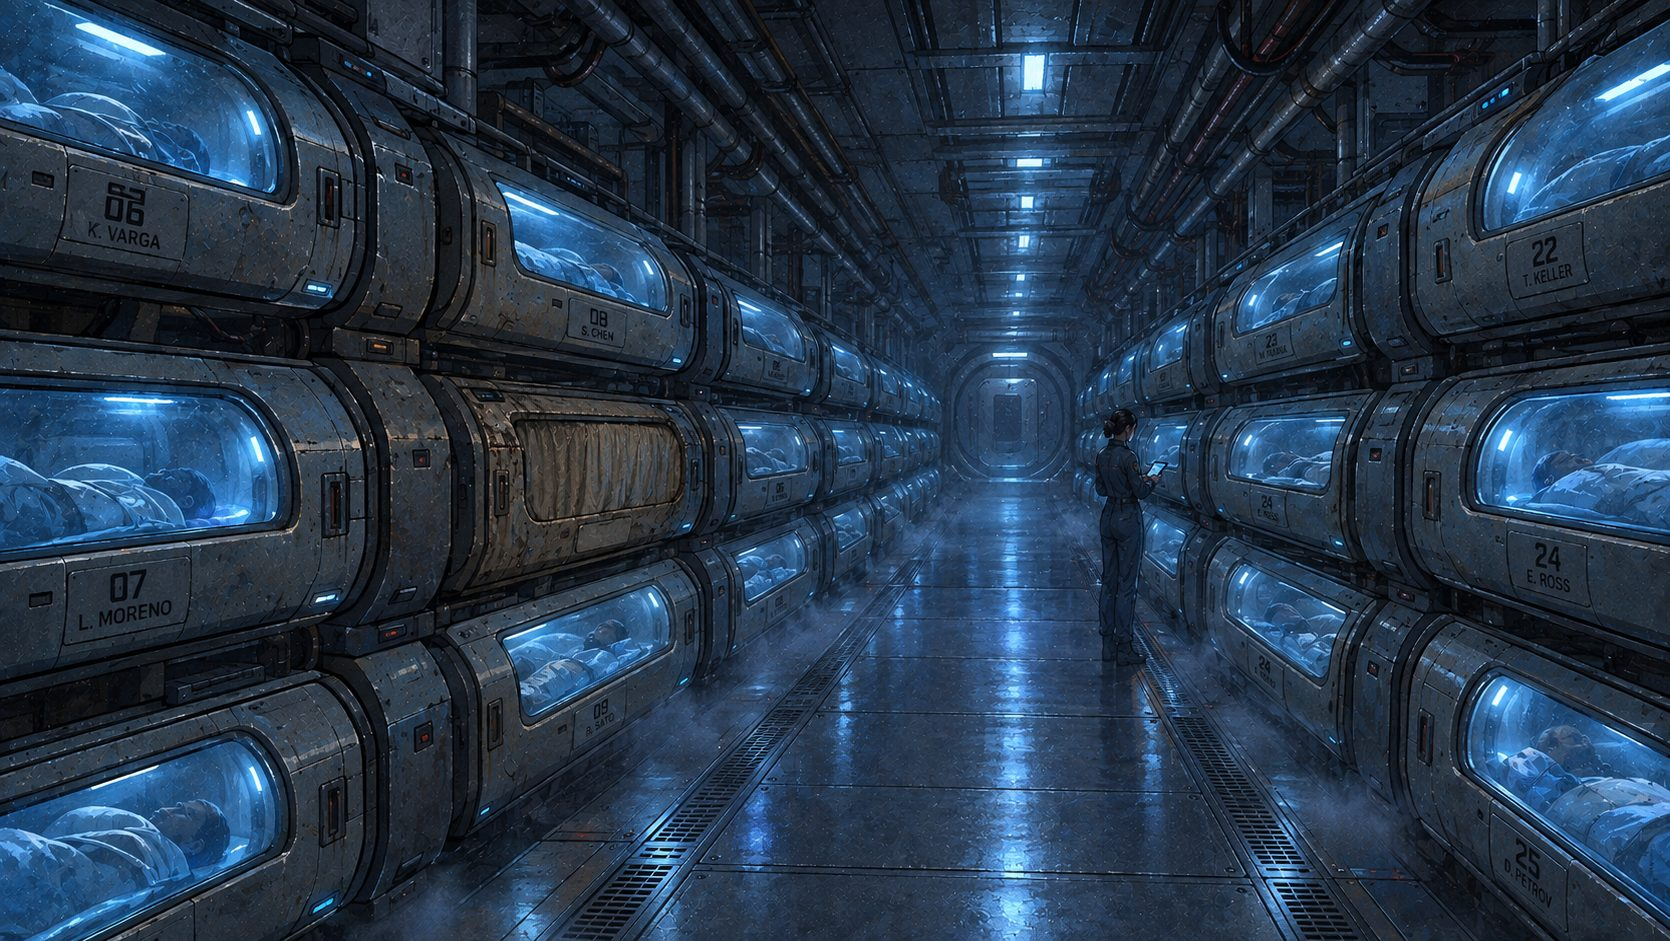
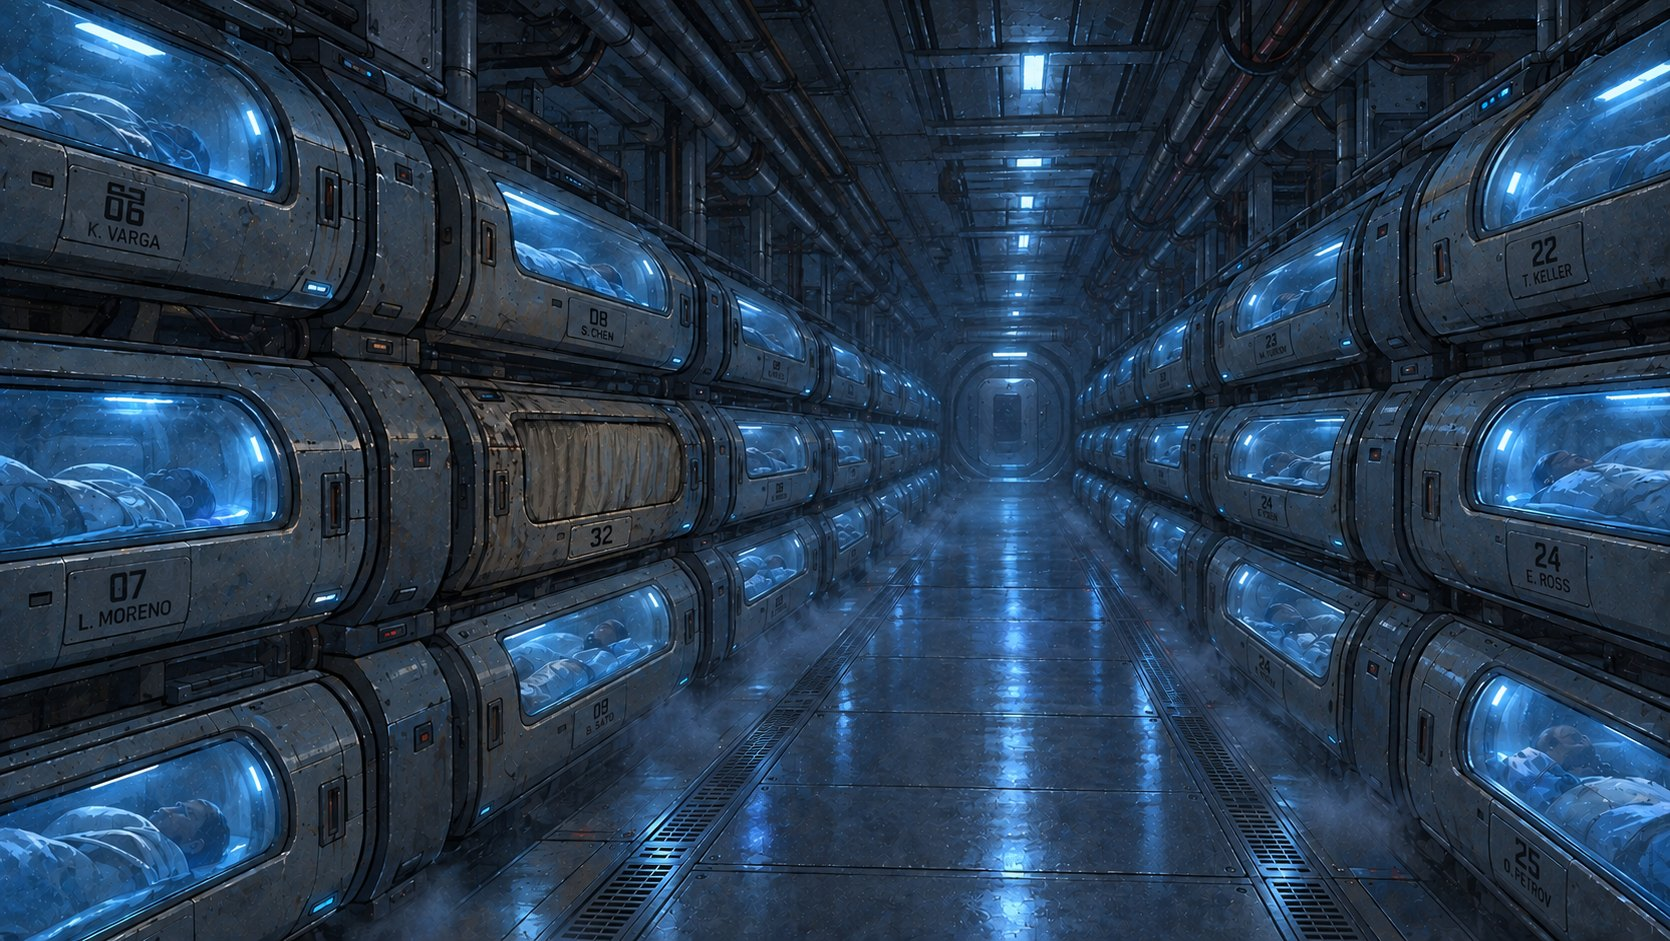
Нова картинка кріокапсул A3; вертикальна обкладинка для телефонів
Claude-Session: https://claude.ai/code/session_01L4NAMirpdvCDRV66K9yRcj

diff --git a/js/app.js b/js/app.js
@@ -1,12 +1,12 @@
-import { createStore } from './store.js?v=202611221233';
+import { createStore } from './store.js?v=202611221237';
 import {
   CHARACTERS, CHAR_BY_ID, ROOMS, ROOM_BY_ID, STAT_LABELS, SAVE_LABELS,
   PANIC_TABLE, WOUND_TABLE, EVENTS, GRETA_MODES, O2_START, initialChars,
   ROOM_LINKS, ROBOTS, ROBOT_BY_ID, XT2_HINTS
-} from './data.js?v=202611221233';
-import { CAMPAIGN, THREAT_STAGES, OBJECTIVES, OBJ_BY_ID, ROUND_EVENTS, GRETA_LINES, LONG_ACTIONS, INTRO_SLIDES } from './campaign.js?v=202611221233';
+} from './data.js?v=202611221237';
+import { CAMPAIGN, THREAT_STAGES, OBJECTIVES, OBJ_BY_ID, ROUND_EVENTS, GRETA_LINES, LONG_ACTIONS, INTRO_SLIDES } from './campaign.js?v=202611221237';
 
-const VERSION = '202611221233';
+const VERSION = '202611221237';
 // ---------- утиліти ----------
 const $ = s => document.querySelector(s);
 const esc = s => String(s ?? '').replace(/[&<>"']/g, c => ({ '&': '&amp;', '<': '&lt;', '>': '&gt;', '"': '&quot;', "'": '&#39;' }[c]));
@@ -1197,7 +1197,7 @@ async function bootGM() {
     }
   }
   S.isAdmin = true;
-  try { S.items = (await import('./gm-items.js?v=202611221233')).ITEMS; } catch (e) { console.warn('items', e); S.items = []; }
+  try { S.items = (await import('./gm-items.js?v=202611221237')).ITEMS; } catch (e) { console.warn('items', e); S.items = []; }
   subs.push(store.on('game/state', v => { S.state = v; renderGM(); }));
   subs.push(store.on('game/seats', v => { S.seats = v || {}; if ($('#gmRoot')) renderCrew(); }));
   subs.push(store.on('game/chars', v => { S.chars = v || {}; if ($('#gmRoot')) { renderMain(); renderCrew(); } }));

diff --git a/index.html b/index.html
@@ -15,15 +15,15 @@
   <link rel="preconnect" href="https://fonts.googleapis.com">
   <link rel="preconnect" href="https://fonts.gstatic.com" crossorigin>
   <link href="https://fonts.googleapis.com/css2?family=Inter:wght@400;500;600&family=JetBrains+Mono:wght@400;700&family=Oswald:wght@400;500;600&display=swap" rel="stylesheet">
-  <link rel="stylesheet" href="css/style.css?v=202611221233">
+  <link rel="stylesheet" href="css/style.css?v=202611221237">
 </head>
 <body>
   <div id="intro" class="intro">
-    <img src="assets/cover.jpg" alt="Квітка Розуму">
+    <picture><source media="(orientation: portrait) and (max-width: 900px)" srcset="assets/cover-m.jpg"><img src="assets/cover.jpg" alt="Квітка Розуму"></picture>
     <div class="intro-ui" id="introMsg"><div class="ring mode-assist"><span></span></div><span>ВСТАНОВЛЮЮ ЗВ'ЯЗОК З STS-187…</span></div>
   </div>
   <div id="app"></div>
   <script>if ('serviceWorker' in navigator && !/[?&#]gm\b/.test(location.search + location.hash)) navigator.serviceWorker.register('sw.js').catch(() => {});</script>
-  <script type="module" src="js/app.js?v=202611221233"></script>
+  <script type="module" src="js/app.js?v=202611221237"></script>
 </body>
 </html>

diff --git a/css/style.css b/css/style.css
@@ -673,3 +673,4 @@ html.mobile .figures { transform: translateZ(0); }
 .loc.nofigs .figures, .loc.nofigs .loc-here, .loc.nofigs .xt2-btn { opacity: 0; pointer-events: none; }
 html.mobile .player .loc-eye { right: 10px; top: 62px; min-height: 36px; }
 html.mobile .player .loc:has(.loc-eye) .loc-next { top: 106px; }
+@media (orientation: portrait) and (max-width: 900px) { .intro-ui { bottom: 15vh; } }

diff --git a/js/store.js b/js/store.js
@@ -1,5 +1,5 @@
 // Шар даних: Firebase Realtime Database або демо-режим (localStorage, синхронізація між вкладками).
-import { firebaseConfig } from './config.js?v=202611221233';
+import { firebaseConfig } from './config.js?v=202611221237';
 
 const FB = 'https://www.gstatic.com/firebasejs/10.12.2/';
 
